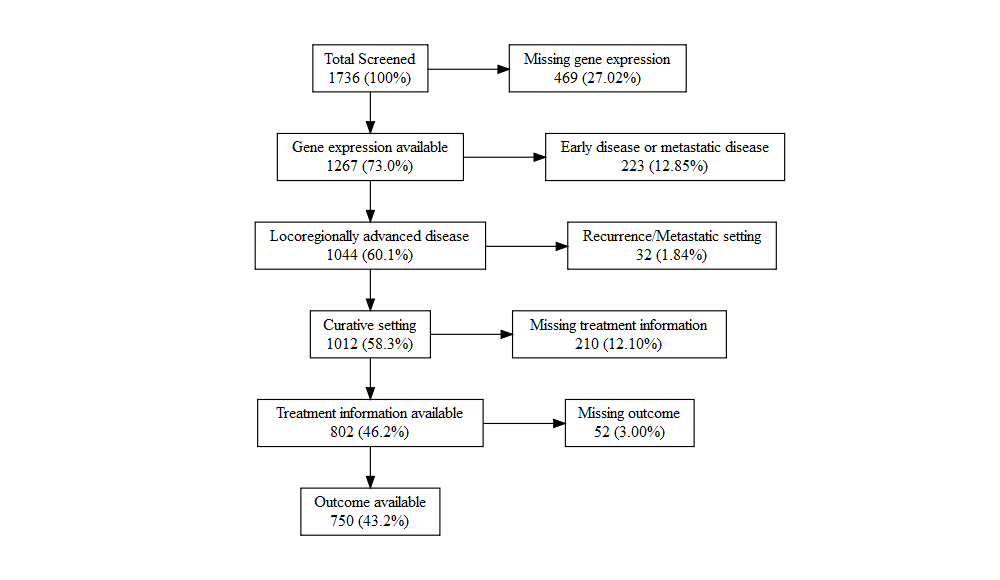
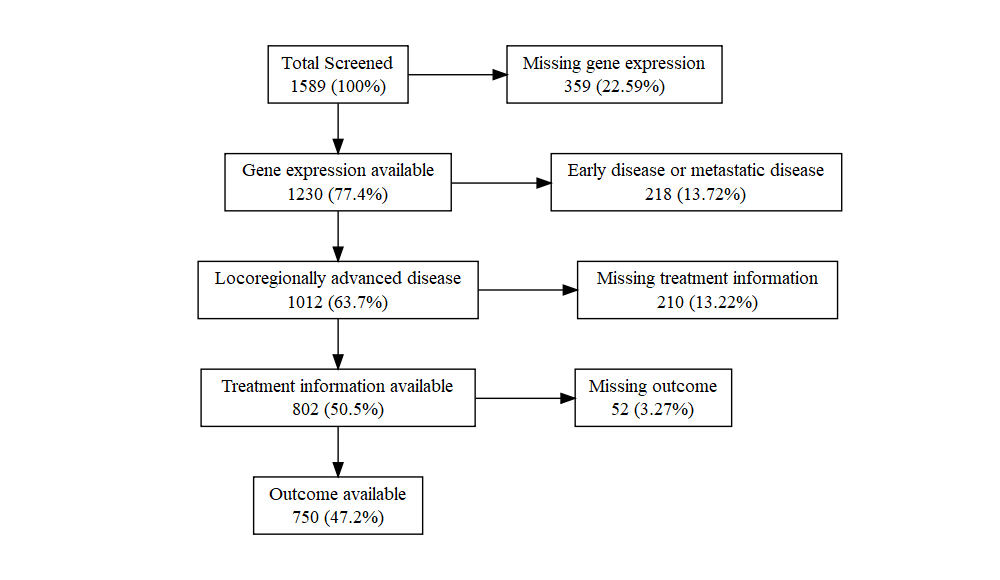
Updating numbers after deciding to first exclude all studies that have zero eligible patients for all scenarios

Changed region(s): [[0.186, 0.0621, 0.837, 0.931]]

diff --git a/Exclusion_flowcharts_markdown.md b/Exclusion_flowcharts_markdown.md
@@ -3,8 +3,9 @@ Exclusion flowcharts
 
 The aim of this script is to make exclusion flowcharts for different
 clinical scenarios and outcomes. The number of patients in each group is
-copied from a secure server for sensitive data (not available here).
-Start by loading the library.
+copied from a secure server for sensitive data
+(“04_flowchart_eligibility.R”, not available here). Start by loading the
+library.
 
 ``` r
 library(PRISMAstatement)
@@ -16,10 +17,10 @@ Next, make an exclusion flowchart for the **base clinical model with
 overall survival** as outcome:
 
 ``` r
-flow_exclusions(incl_counts = c(1736, 1589, 1564, 1447), total_label = "Total Screened",
-    incl_labels = c("Curative setting", "Early disease or locoregionally advanced disease",
-        "Outcome available"), excl_labels = c("Recurrence/Metastatic setting", "Metastatic disease / missing TNM stage",
-        "Missing outcome"), percent_of_total = TRUE)
+flow_exclusions(incl_counts = c(1589, 1564, 1447), total_label = "Total Screened",
+    incl_labels = c("Early disease or locoregionally advanced disease", "Outcome available"),
+    excl_labels = c("Metastatic disease / missing TNM stage", "Missing outcome"),
+    percent_of_total = TRUE)
 ```
 
 ![](Exclusion_flowcharts_markdown_files/figure-gfm/base%20clinical%20OS-1.png)<!-- -->
@@ -28,10 +29,10 @@ Similarly for the **base clinical model with disease-free survival** as
 outcome:
 
 ``` r
-flow_exclusions(incl_counts = c(1736, 1589, 1564, 1251), total_label = "Total Screened",
-    incl_labels = c("Curative setting", "Early disease or locoregionally advanced disease",
-        "Outcome available"), excl_labels = c("Recurrence/Metastatic setting", "Metastatic disease / missing TNM stage",
-        "Missing outcome"), percent_of_total = TRUE)
+flow_exclusions(incl_counts = c(1589, 1564, 1251), total_label = "Total Screened",
+    incl_labels = c("Early disease or locoregionally advanced disease", "Outcome available"),
+    excl_labels = c("Metastatic disease / missing TNM stage", "Missing outcome"),
+    percent_of_total = TRUE)
 ```
 
 ![](Exclusion_flowcharts_markdown_files/figure-gfm/base%20clinical%20dfs-1.png)<!-- -->
@@ -40,10 +41,10 @@ Next the flowchart for **GS1, GS2 and GS3 and overall survival**. These
 use the same subset of data, but GS3 has different variable encoding.
 
 ``` r
-flow_exclusions(incl_counts = c(1736, 1267, 1230, 1206, 1097), total_label = "Total Screened",
-    incl_labels = c("Gene expression available", "Curative setting", "Early disease or locoregionally advanced disease",
-        "Outcome available"), excl_labels = c("Missing gene expression", "Recurrence/Metastatic setting",
-        "Metastatic disease / missing TNM stage", "Missing outcome"), percent_of_total = TRUE)
+flow_exclusions(incl_counts = c(1589, 1230, 1206, 1097), total_label = "Total Screened",
+    incl_labels = c("Gene expression available", "Early disease or locoregionally advanced disease",
+        "Outcome available"), excl_labels = c("Missing gene expression", "Metastatic disease / missing TNM stage",
+        "Missing outcome"), percent_of_total = TRUE)
 ```
 
 ![](Exclusion_flowcharts_markdown_files/figure-gfm/GS1%20GS2%20GS3%20OS-1.png)<!-- -->
@@ -55,10 +56,10 @@ These also use the same subset of data, but GS3 has different variable
 encoding.
 
 ``` r
-flow_exclusions(incl_counts = c(1736, 1267, 1230, 1206, 907), total_label = "Total Screened",
-    incl_labels = c("Gene expression available", "Curative setting", "Early disease or locoregionally advanced disease",
-        "Outcome available"), excl_labels = c("Missing gene expression", "Recurrence/Metastatic setting",
-        "Metastatic disease / missing TNM stage", "Missing outcome"), percent_of_total = TRUE)
+flow_exclusions(incl_counts = c(1589, 1230, 1206, 907), total_label = "Total Screened",
+    incl_labels = c("Gene expression available", "Early disease or locoregionally advanced disease",
+        "Outcome available"), excl_labels = c("Missing gene expression", "Metastatic disease / missing TNM stage",
+        "Missing outcome"), percent_of_total = TRUE)
 ```
 
 ![](Exclusion_flowcharts_markdown_files/figure-gfm/GS1%20GS2%20GS3%20DFS-1.png)<!-- -->
@@ -70,11 +71,10 @@ require information about treatment (specifically chemotherapy agents if
 they had chemotherapy).
 
 ``` r
-flow_exclusions(incl_counts = c(1736, 1267, 1044, 1012, 802, 750), total_label = "Total Screened",
+flow_exclusions(incl_counts = c(1589, 1230, 1012, 802, 750), total_label = "Total Screened",
     incl_labels = c("Gene expression available", "Locoregionally advanced disease",
-        "Curative setting", "Treatment information available", "Outcome available"),
-    excl_labels = c("Missing gene expression", "Early disease or metastatic disease",
-        "Recurrence/Metastatic setting", "Missing treatment information", "Missing outcome"),
+        "Treatment information available", "Outcome available"), excl_labels = c("Missing gene expression",
+        "Early disease or metastatic disease", "Missing treatment information", "Missing outcome"),
     percent_of_total = TRUE)
 ```
 
@@ -85,11 +85,10 @@ use the same subset of data, but have different variable encoding for
 chemo agents. Very similar to OS above.
 
 ``` r
-flow_exclusions(incl_counts = c(1736, 1267, 1044, 1012, 802, 700), total_label = "Total Screened",
+flow_exclusions(incl_counts = c(1589, 1230, 1012, 802, 700), total_label = "Total Screened",
     incl_labels = c("Gene expression available", "Locoregionally advanced disease",
-        "Curative setting", "Treatment information available", "Outcome available"),
-    excl_labels = c("Missing gene expression", "Early disease or metastatic disease",
-        "Recurrence/Metastatic setting", "Missing treatment information", "Missing outcome"),
+        "Treatment information available", "Outcome available"), excl_labels = c("Missing gene expression",
+        "Early disease or metastatic disease", "Missing treatment information", "Missing outcome"),
     percent_of_total = TRUE)
 ```
 
